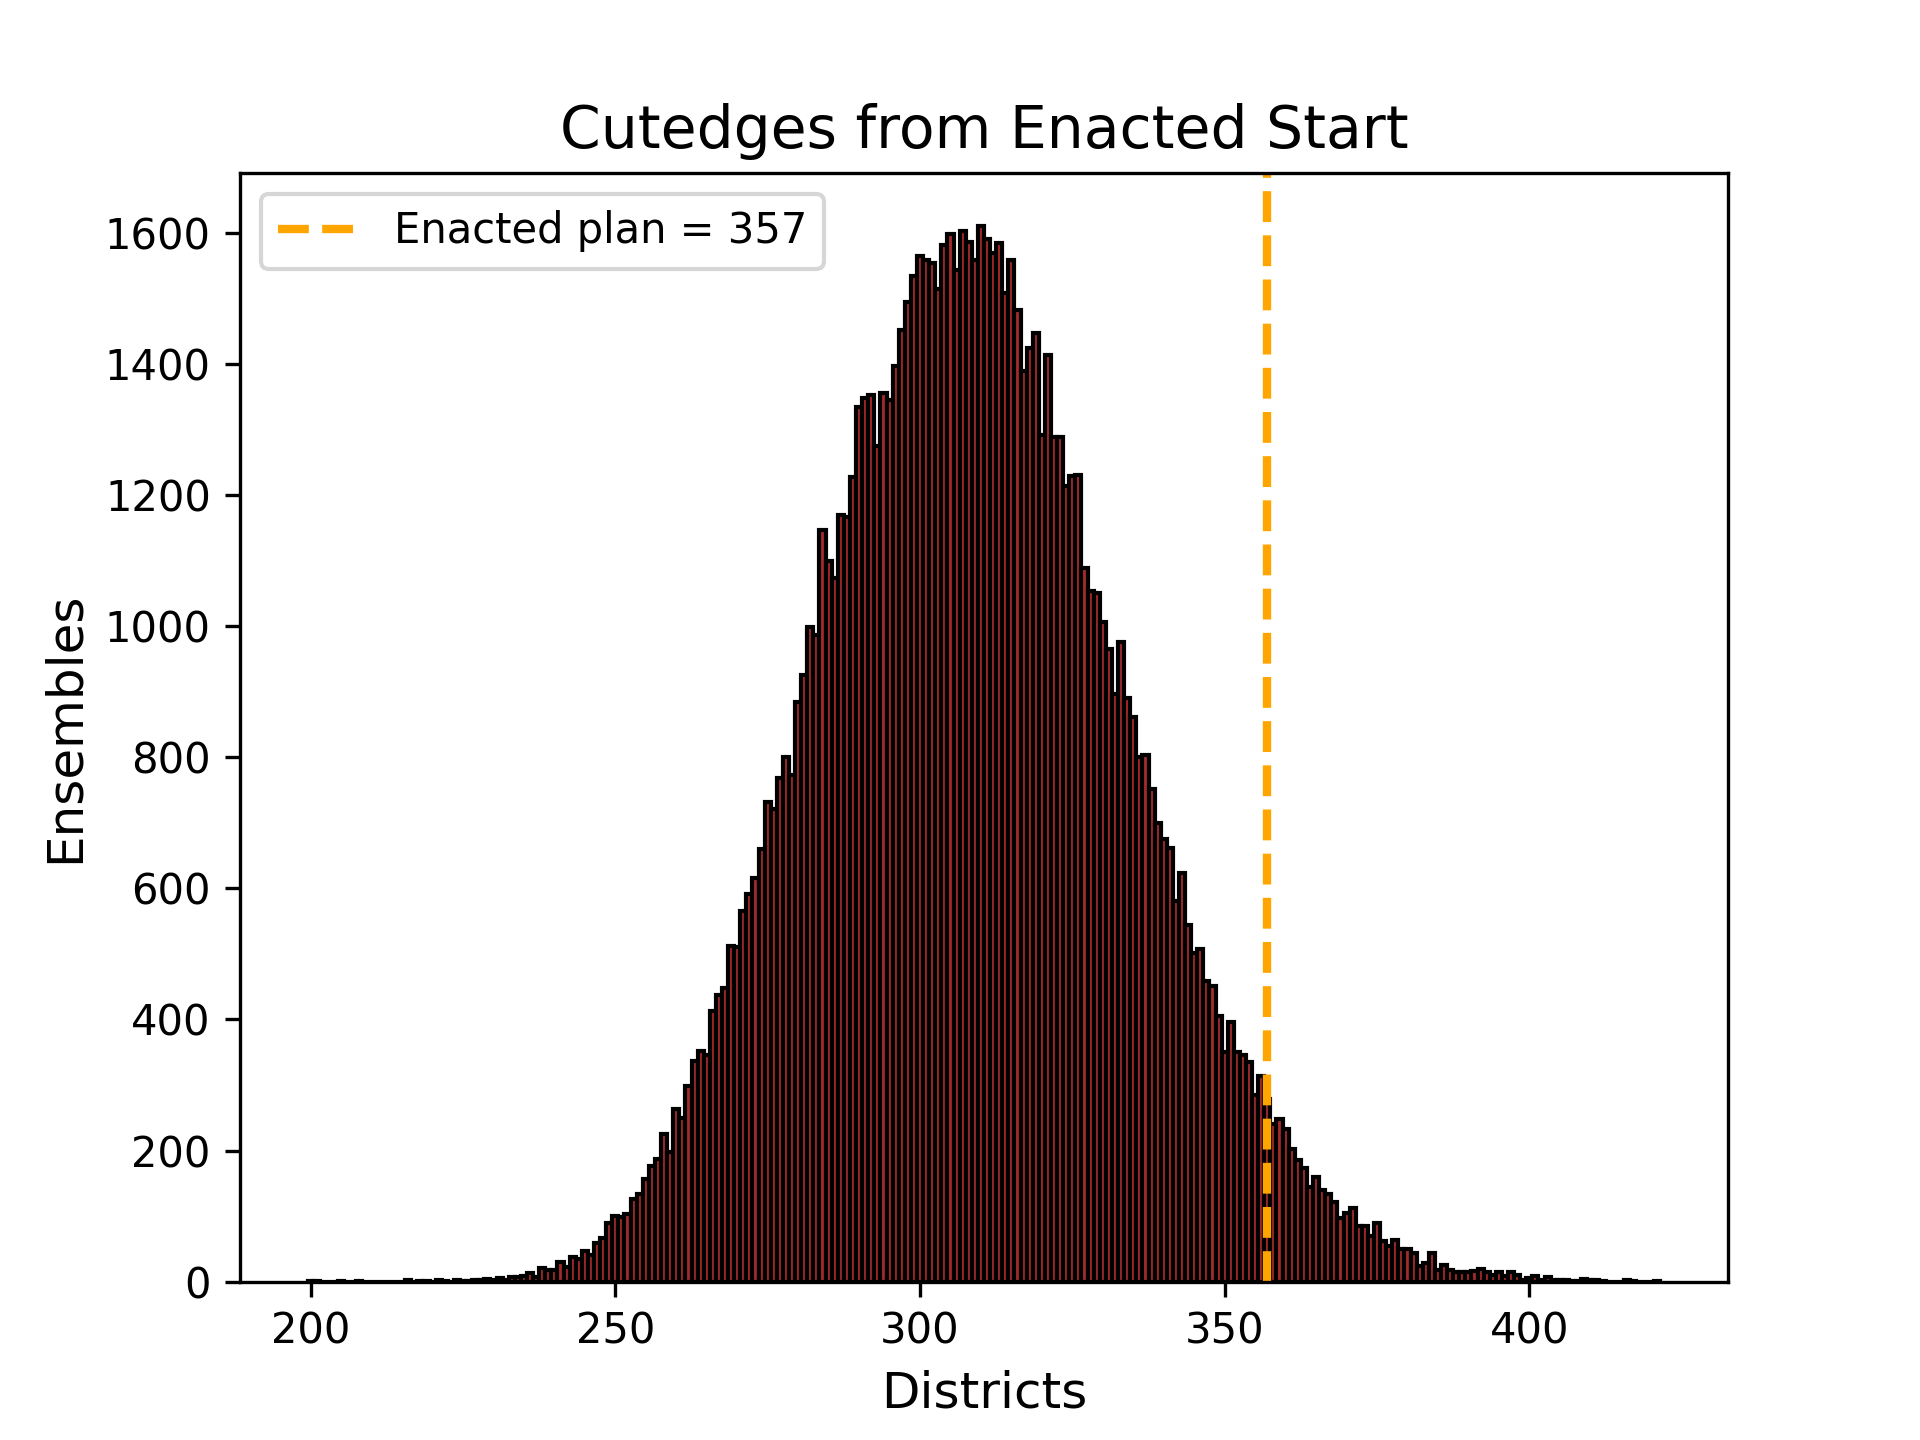
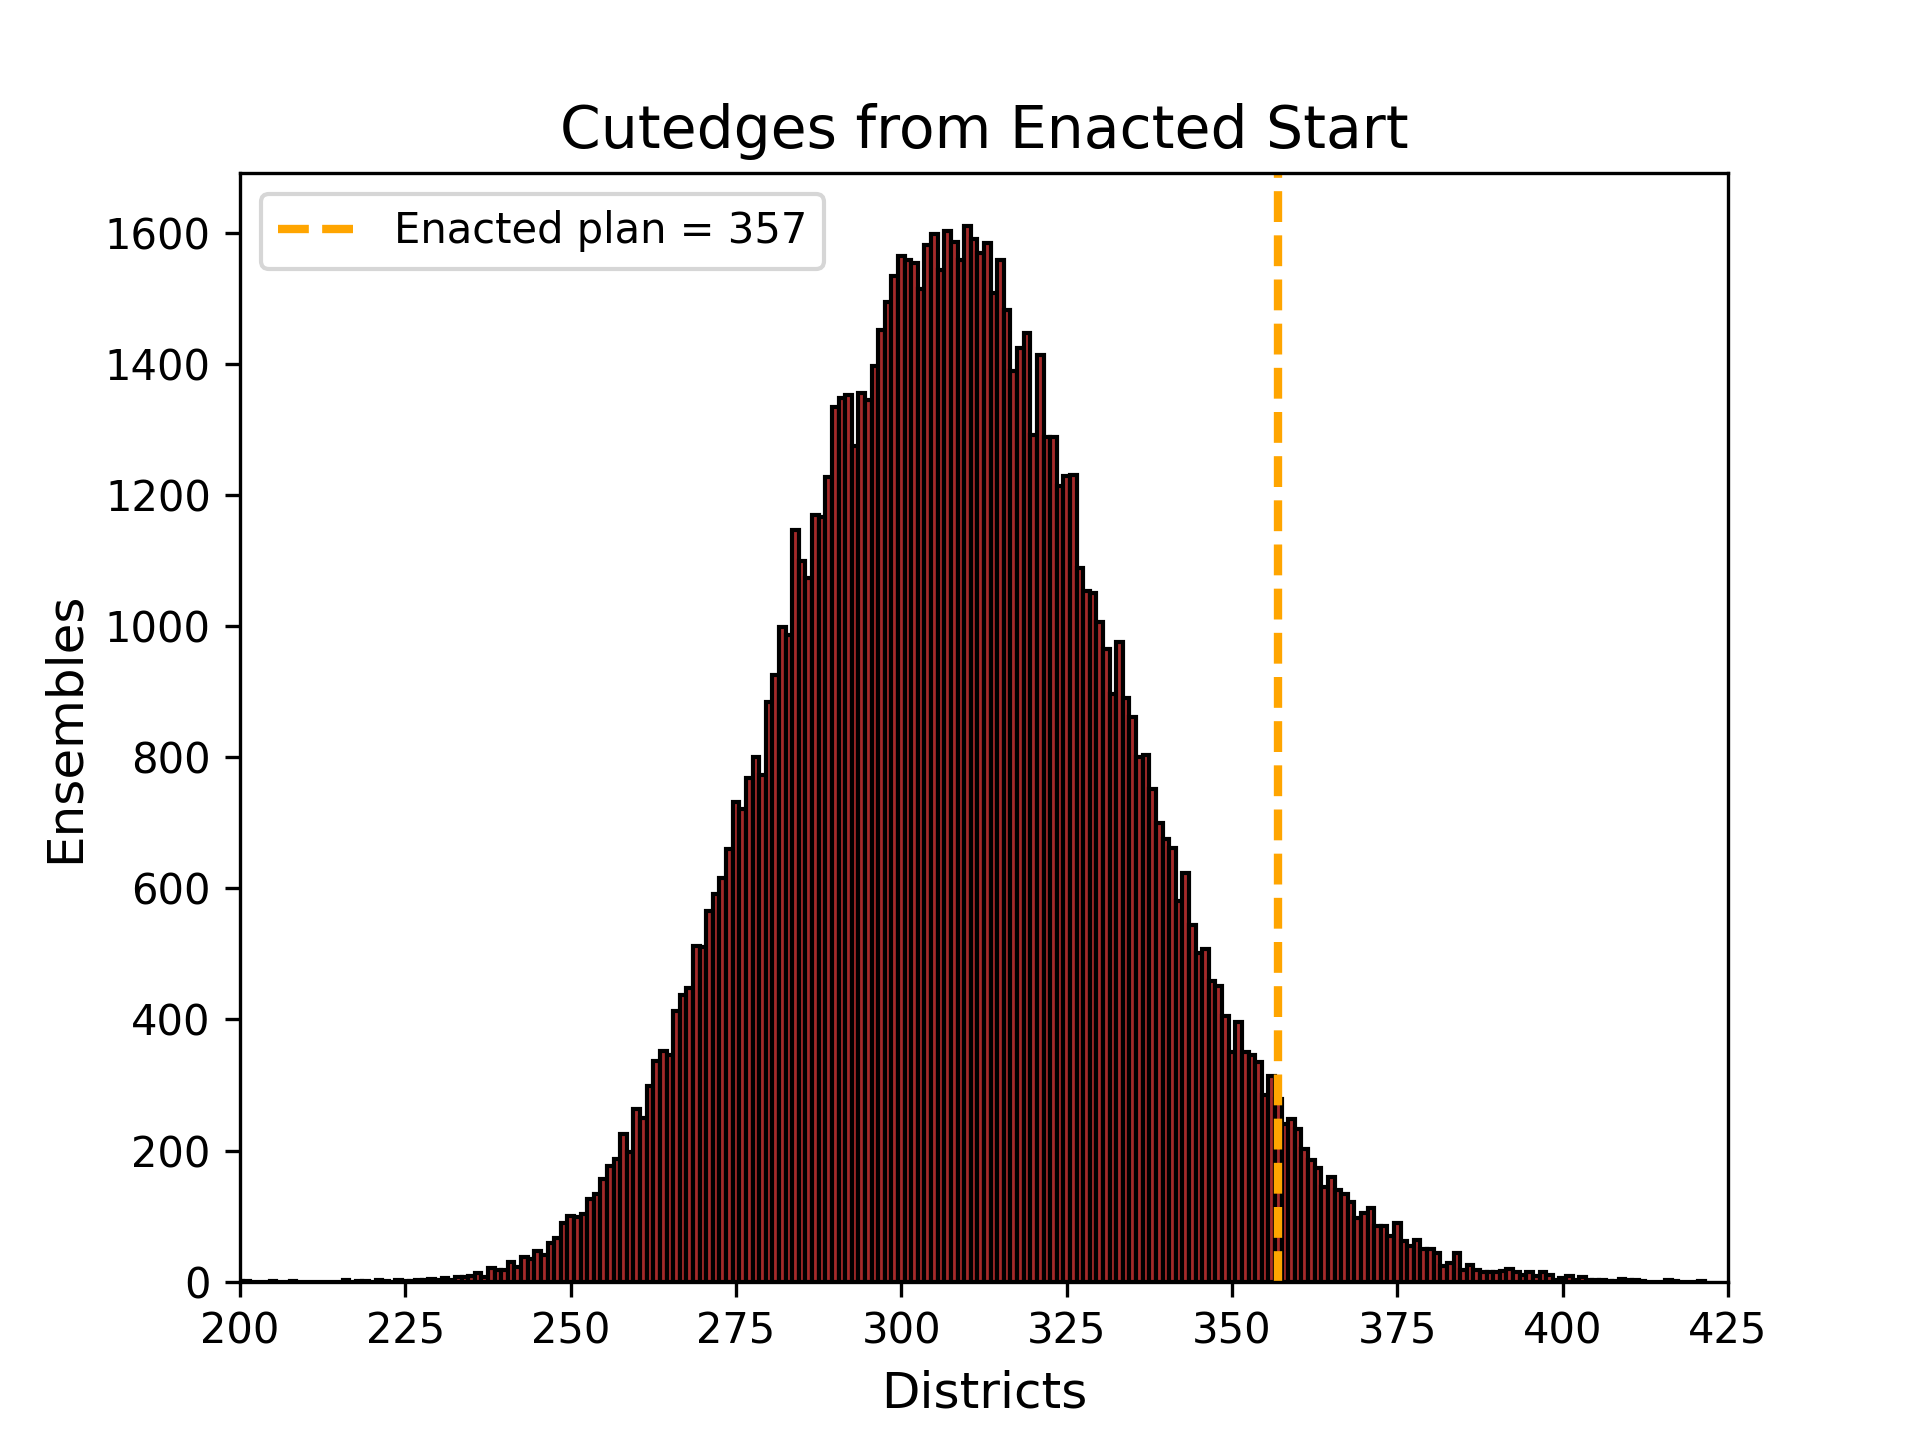
nicer plots

Changed region(s): [[0.25, 0.125, 0.8438, 0.9375], [0.0938, 0.9062, 0.25, 0.9375], [0.875, 0.9062, 0.9375, 0.9375]]

diff --git a/main.py b/main.py
@@ -394,24 +394,24 @@ candidate_names = ["Harris", "Trump", "Other"]
 demographic_group_names = ["Democrat", "Republican", "Independent"]
 
 # Fitting a first model
-# ei = RowByColumnEI(model_name='multinomial-dirichlet')
+ei = RowByColumnEI(model_name='multinomial-dirichlet')
 
 # Fit the model
-# ei.fit(group_fractions,
-#        votes_fractions,
-#        precinct_pops,
-#        demographic_group_names=demographic_group_names,
-#        candidate_names=candidate_names,
-#        draws=1200,
-#        tune=3000,
-#        chains=4
-# )
+ei.fit(group_fractions,
+       votes_fractions,
+       precinct_pops,
+       demographic_group_names=demographic_group_names,
+       candidate_names=candidate_names,
+       draws=1200,
+       tune=3000,
+       chains=4
+)
 
 # Save EI ouptut
-# to_netcdf(ei, 'data/ei.netcdf')
+to_netcdf(ei, 'data/ei.netcdf')
 
 # Import EI output from previous run
-ei = from_netcdf('data/ei.netcdf')
+# ei = from_netcdf('data/ei.netcdf')
 
 # Generate a simple report to summarize the results
 print(ei.summary())
@@ -421,8 +421,6 @@ ei.plot()
 plt.tight_layout()
 plt.subplots_adjust(right=0.80)
 plt.savefig("figs/ei.png")
-
-breaaak
 
 ### ENSEMBLE ANALYSIS ###
 
@@ -440,7 +438,6 @@ POP_TOLERANCE = 0.33
 def save_histogram(data, enacted_value, party, metric, color, flag, output_dir="figs"):
     """
     Saves a histogram for the ensemble data with appropriate styling.
-
     Parameters:
         data (list): Ensemble data for the metric (e.g., plurality or majority).
         enacted_value (int): The value of the metric in the enacted plan.
@@ -459,6 +456,8 @@ def save_histogram(data, enacted_value, party, metric, color, flag, output_dir="
     plt.hist(data, bins=bins, edgecolor='black', color=color)
     if metric:
         plt.xticks(ticks)
+    else:
+        plt.xlim(200, 425)  # Set x-axis for no metric
     plt.xlabel("Districts", fontsize=12)
     plt.ylabel("Ensembles", fontsize=12)
     if metric:
@@ -482,7 +481,6 @@ def save_histogram(data, enacted_value, party, metric, color, flag, output_dir="
 def save_boxplot(data, enacted_values, party, color, flag, output_dir="figs"):
     """
     Saves a boxplot for party percentages by district at a given level.
-
     Parameters:
         data (list of lists): Ensemble data for the party percentages across districts.
         enacted_values (list): Enacted plan percentages for the party, one per district.
@@ -494,7 +492,6 @@ def save_boxplot(data, enacted_values, party, color, flag, output_dir="figs"):
     a = np.array(data)
     # Sort enacted values for better visualization
     enacted_values_sorted = sorted(enacted_values)
-
     # Create the boxplot
     plt.figure()
     plt.boxplot(a, patch_artist=True, 
@@ -503,18 +500,15 @@ def save_boxplot(data, enacted_values, party, color, flag, output_dir="figs"):
                 whiskerprops=dict(color='black', linewidth=1),
                 capprops=dict(color='black', linewidth=1),
                 zorder=1)
-
     # Overlay the enacted plan as a scatter plot
     plt.scatter(x=range(1, len(enacted_values_sorted) + 1), y=enacted_values_sorted, 
                 color="goldenrod", label="Enacted plan", zorder=2)
-
     # Add title, labels, and legend
     plt.xlabel("Districts", fontsize=12)
     plt.ylabel(f"{party} Percentage", fontsize=12)
     plt.suptitle(f"{party} Percentage in Commission Districts", fontsize=14)
     plt.title(f"from {flag.capitalize()} Start")
     plt.legend()
-
     # Save the boxplot
     filename = f"{output_dir}/boxplot-{party.lower()}-{flag}.png"
     plt.savefig(filename)
